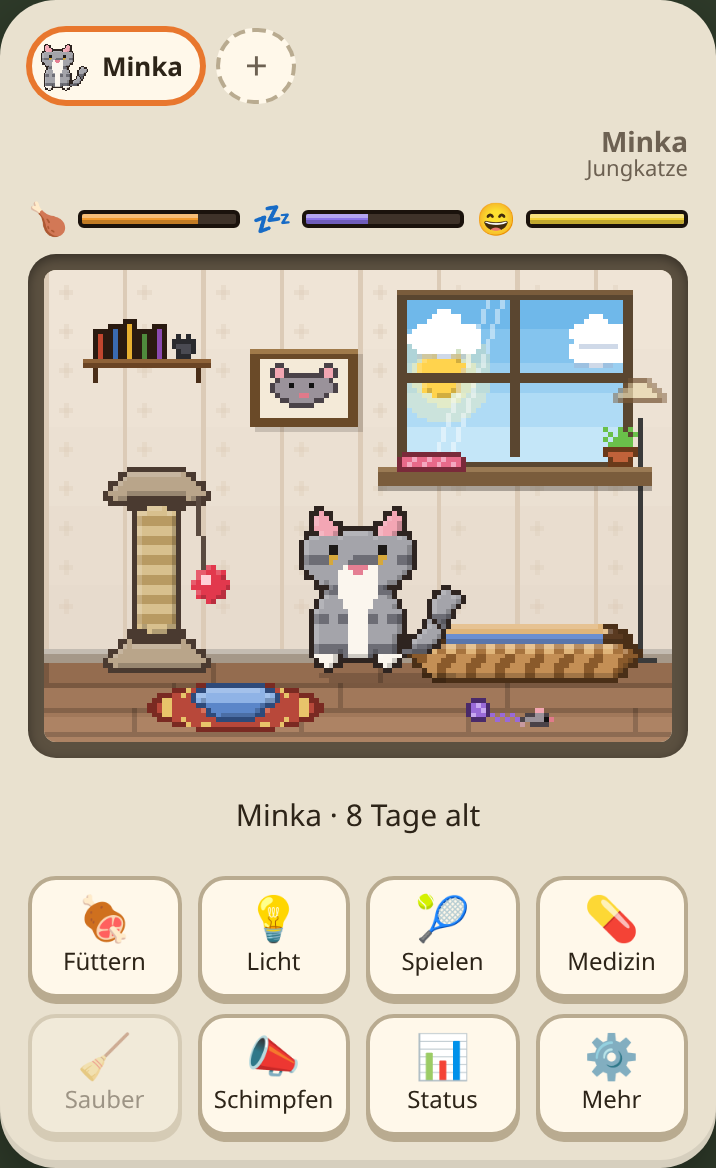
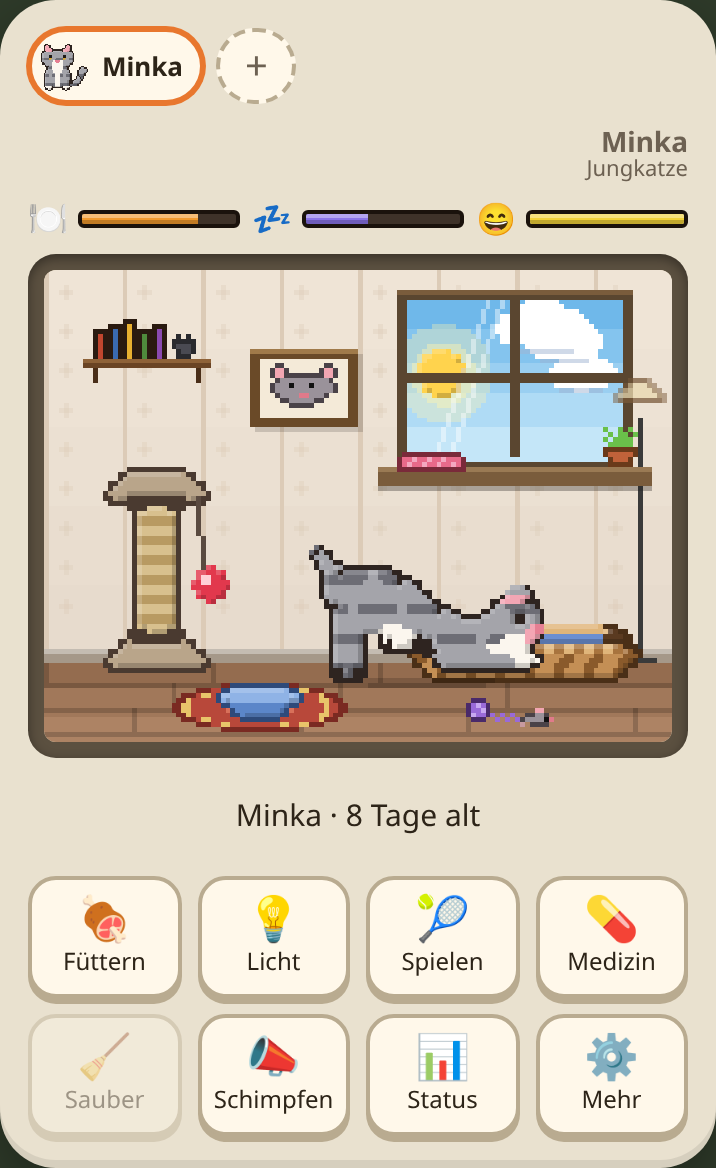
Napf weiter rechts, Wassernapf beim Hund entfernt, Besteck-Symbol für Sättigung

Changed region(s): [[0.1844, 0.4315, 0.7682, 0.6473], [0.5531, 0.2466, 0.8911, 0.339], [0.0307, 0.1541, 0.0922, 0.2158]]

diff --git a/src/render/decor.ts b/src/render/decor.ts
@@ -103,8 +103,6 @@ const MOUSE_PORTRAIT = [
 const MOUSE_PORTRAIT_C: ColorMap = { o: '#4a4248', g: '#9a929a', p: '#f2a6b2', e: '#111111', n: '#e07a8a' };
 const TOYMOUSE = ['...pp..', '.ooggo.', 'oggggen', 't.oooo.'];
 const TOYMOUSE_C: ColorMap = { o: '#4a4248', g: '#9a929a', p: '#f2a6b2', e: '#111111', n: '#e07a8a', t: '#c89aa0' };
-const WATERBOWL = ['.ooooooo.', 'olllllllo', '.obbbbbo.', '..ooooo..'];
-const WATER_C: ColorMap = { o: '#5a6a7a', l: '#7ac0f0', b: '#9aa8b8' };
 const HARNESS = ['...oo...', '..o..o..', '.obbbbo.', 'ob.oo.bo', 'ob.oo.bo', '.obbbbo.', '..oyyo..', '...oo...'];
 const HARNESS_C: ColorMap = { o: '#1a3a6a', b: '#3a6ad8', y: '#c8c8c8' };
 const COLLAR = ['..oo..', '.o..o.', 'og..go', 'og..go', '.oggo.', '..yy..', '.yYYy.', '..yy..'];
@@ -142,11 +140,11 @@ export function decorTargets(species: string): DecorTarget[] {
     case 'fox':
       return [{ x: 38, kind: 'sniff' }];
     case 'hedgehog':
-      return [{ x: 20, kind: 'sniff' }];
+      return [{ x: 14, kind: 'sniff' }];
     case 'cat':
       return [{ x: 49.5, kind: 'nudge' }, { x: 43, kind: 'sill' }];
     case 'dog':
-      return [{ x: 27, kind: 'drink' }];
+      return [];
     case 'chicken':
       return [{ x: 8, kind: 'dustbath' }, { x: STRAW_HEAP.cx, kind: 'hop' }];
   }
@@ -235,7 +233,7 @@ export function drawDecorNear(ctx: CanvasRenderingContext2D, species: string, su
       sunflower(ctx, 22, 18, sunX);
       put(ctx, GNOME, GNOME_C, 26, 27);
       put(ctx, CAN, CAN_C, 29.5, 30.5);
-      put(ctx, APPLE, APPLE_C, 19, 43);
+      put(ctx, APPLE, APPLE_C, 12.5, 43.5);
       break;
     case 'cat': {
       // Wandregal mit Büchern und Katzenfigur über dem Kratzbaum
@@ -272,7 +270,6 @@ export function drawDecorNear(ctx: CanvasRenderingContext2D, species: string, su
       put(ctx, ['.ooo.', 'o...o', 'o...o', '.ooo.'], { o: '#d8343a' }, 4.5, 20.5);
       put(ctx, HARNESS, HARNESS_C, 8.25, 14.5);
       put(ctx, COLLAR, COLLAR_C, 13, 14.5);
-      put(ctx, WATERBOWL, WATER_C, 24.5, 42.5);
       break;
     case 'chicken': {
       // Sonnenblumen am Zaun, Sandbad-Kuhle, Tränke, Leiter, Nistkasten
@@ -284,7 +281,7 @@ export function drawDecorNear(ctx: CanvasRenderingContext2D, species: string, su
           if (d < 1) rect(ctx, d < 0.5 ? '#b8923a' : '#c8a24a', x, y, P, P);
         }
       strawHeap(ctx);
-      put(ctx, TROUGH_WATER, TROUGH_C, 26, 41.5);
+      put(ctx, TROUGH_WATER, TROUGH_C, 29, 41.5);
       // Leiter an der linken Stallwand
       for (const lx of [35.5, 37.5]) rect(ctx, '#7a5a34', lx, 30, P, 11);
       for (let ry = 31; ry < 41; ry += 2) rect(ctx, '#a07a4a', 35.5, ry, 2.5, P);

diff --git a/src/ui/app.ts b/src/ui/app.ts
@@ -125,7 +125,7 @@ export class App {
       this.stats.append(root);
       return { root, fill, ico: icoEl };
     };
-    this.statEls = { food: mk('food', '🍗', 'Sättigung'), tired: mk('tired', '💤', 'Müdigkeit'), mood: mk('mood', '🙂', 'Laune') };
+    this.statEls = { food: mk('food', '🍽', 'Sättigung'), tired: mk('tired', '💤', 'Müdigkeit'), mood: mk('mood', '🙂', 'Laune') };
     this.badges = h('div', { class: 'badges' });
     this.msgEl = h('div', { class: 'msg', role: 'status' });
 

diff --git a/src/render/scene.ts b/src/render/scene.ts
@@ -41,7 +41,7 @@ const BASKET_FRONT = [
 const BASKET_FRONT_DY = 2; // Vorderseite beginnt unter der Rückseite
 
 // Futternapf neben der Pflanze
-const BOWL_X = 15;
+const BOWL_X = 17.5;
 const BOWL_Y = FLOOR_Y + 2;
 const BOWL = ['.ooooooo.', 'ohhhhhhho', '.obbbbbo.', '..ooooo..'];
 // flache Schale (Hühnerhof: Blech, Garten: blaue Keramik) – in voller Rasterauflösung

diff --git a/SPEC.md b/SPEC.md
@@ -38,7 +38,7 @@ Abschnitte mit **(ergänzt)** stammen nicht aus der ursprünglichen Anforderung,
 Den Status kann man jederzeit über einen eigenen Statusbildschirm ansehen.
 
 **Status-Leisten:** Sättigung, Müdigkeit und Laune stehen **über dem Spielbild** (nicht mehr im Bild) in einer Zeile:
-- 🍗 **Sättigung** (orange), 💤 **Müdigkeit** (lila; füllt sich, je müder das Tier ist), **Laune** (gelb) mit einem Gesicht passend zur Stimmung: 😄 / 🙂 / 😟.
+- 🍽 **Sättigung** (orange, Besteck mit Teller), 💤 **Müdigkeit** (lila; füllt sich, je müder das Tier ist), **Laune** (gelb) mit einem Gesicht passend zur Stimmung: 😄 / 🙂 / 😟.
 - Die Leisten sind durchgehend und füllen sich sanft. Sättigung und Laune **blinken rot** bei höchstens 25 %, die Müdigkeit ab 80 %.
 - In der Zeile darüber stehen links **Hinweis-Abzeichen**: „🤒 krank“ und ein pulsierendes „❗ ruft“. Rechts stehen Name und Entwicklungsstufe.
 - Im Statusbildschirm stehen Sättigung und Laune zusätzlich als Balken mit Prozentangabe.
@@ -266,7 +266,6 @@ Mehrere Parameter lassen sich kombinieren. Bei einem Ei wirkt nur `hatch=1`.
   - **Bücherregal** mit einem kleinen Knochen
   - **Pfotenbild** im Goldrahmen mit Passepartout (vier Zehenballen und großer Ballen)
   - darunter eine **Hakenleiste** mit roter **Leine**, blauem **Geschirr** und grünem **Halsband mit goldener Marke**
-  - **Wassernapf** neben dem Futternapf
   - **Fußmatte** vorne
 - **Huhn (Hof):**
   - zwei **Sonnenblumen** am Zaun
@@ -378,7 +377,6 @@ Gesperrte Aktionen, zum Beispiel Füttern während des Schlafs, sind ausgegraut.
   - Fuchs: schnüffelt an der Feder
   - Igel: schnuppert am Apfel
   - Katze: stupst die Spielmaus an oder **springt aufs Fensterkissen** und döst dort eine Weile eingerollt, dann springt sie wieder herunter
-  - Hund: **trinkt** am Wassernapf, kleine Wassertropfen inklusive
   - Huhn: hüpft auf den **Strohhaufen**, schaut sich oben nach links und rechts um und hüpft wieder herunter
   - Huhn: nimmt ein **Sandbad**, plustert sich in der Kuhle auf und lässt Staubwölkchen aufsteigen
 - Kommt ein **wildes Tier vorbei** (Maus, Igel, Reh, Vogel, auch der Vogel am Fenster oder die Fliege bei der Katze), reagiert das Haustier **zufällig**: Meist bleibt es stehen und **beobachtet** es. Bei Tieren am Boden in seiner Nähe (Maus, Igel, Fliege bei der Katze) **läuft es ihm manchmal hinterher**, Katze, Fuchs und Hund springen dabei auch mal danach. Manchmal ignoriert es das Tier und macht einfach weiter.
